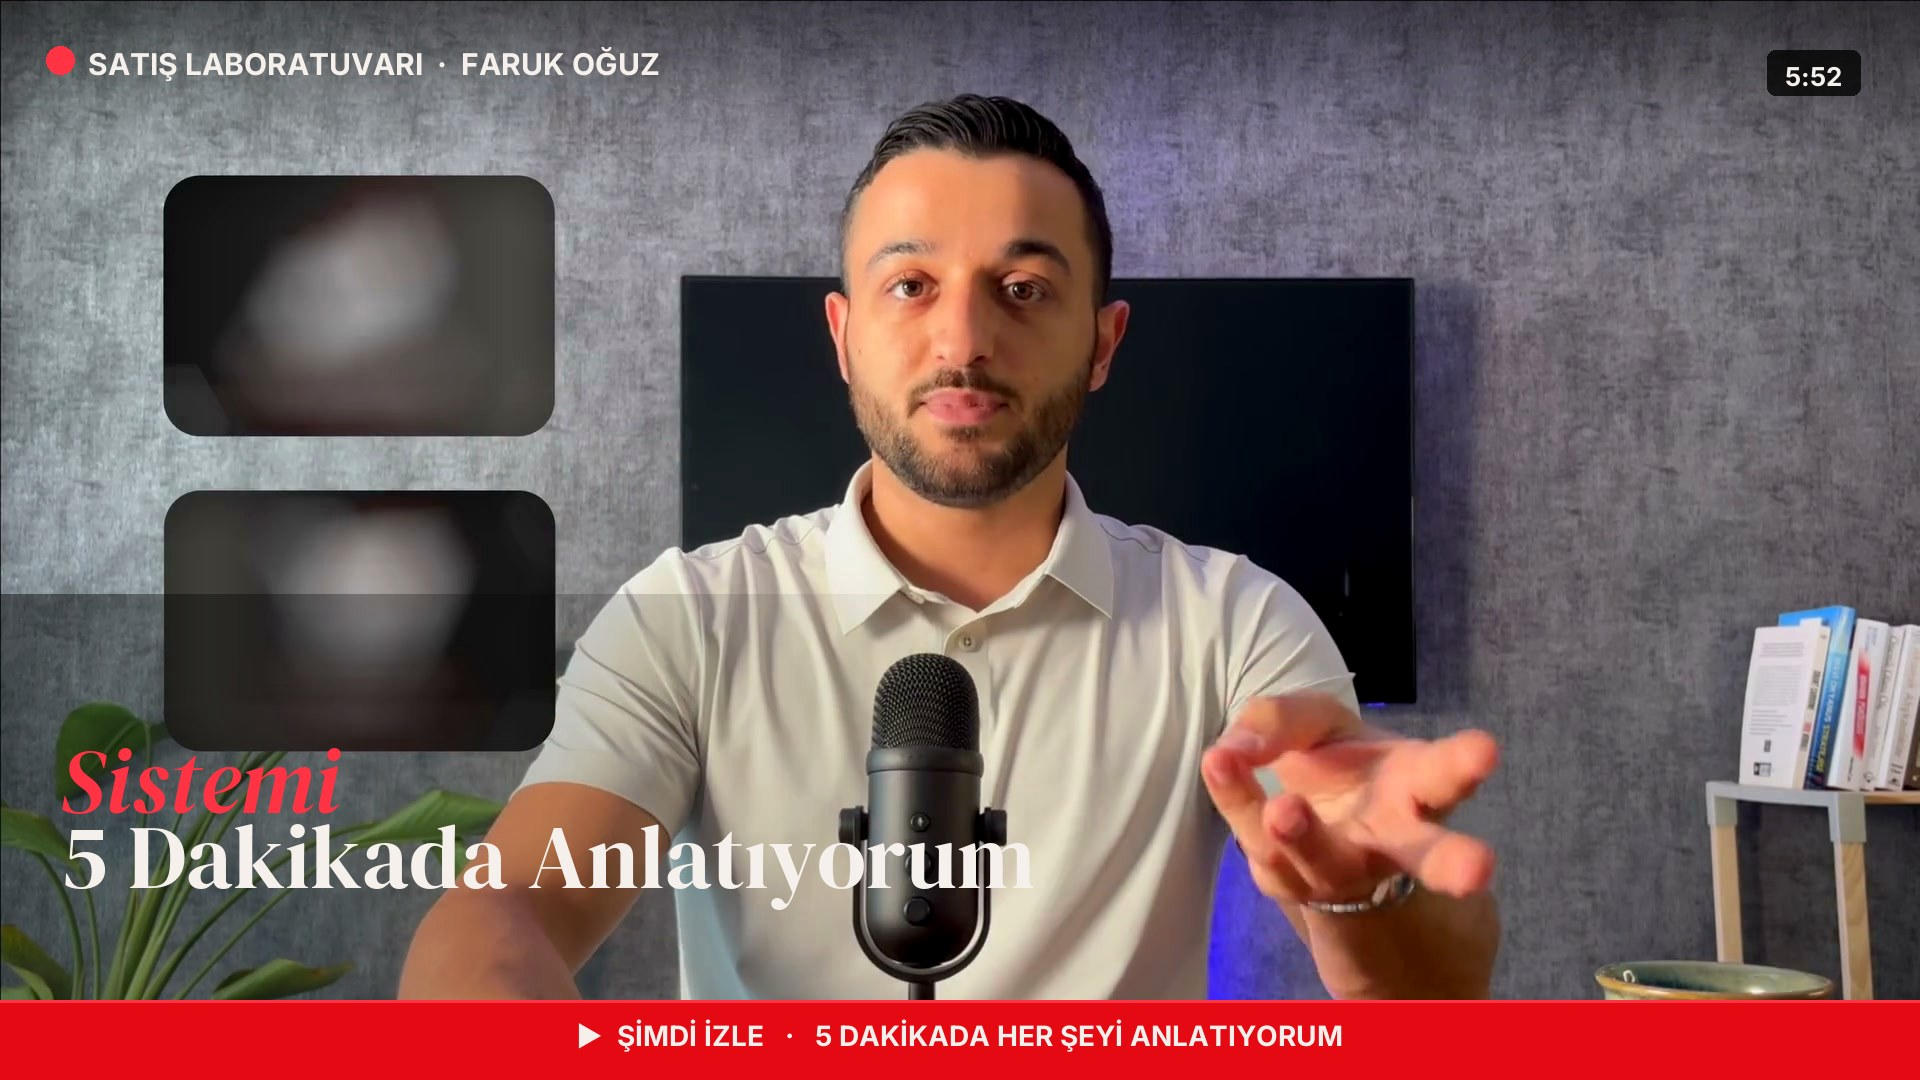
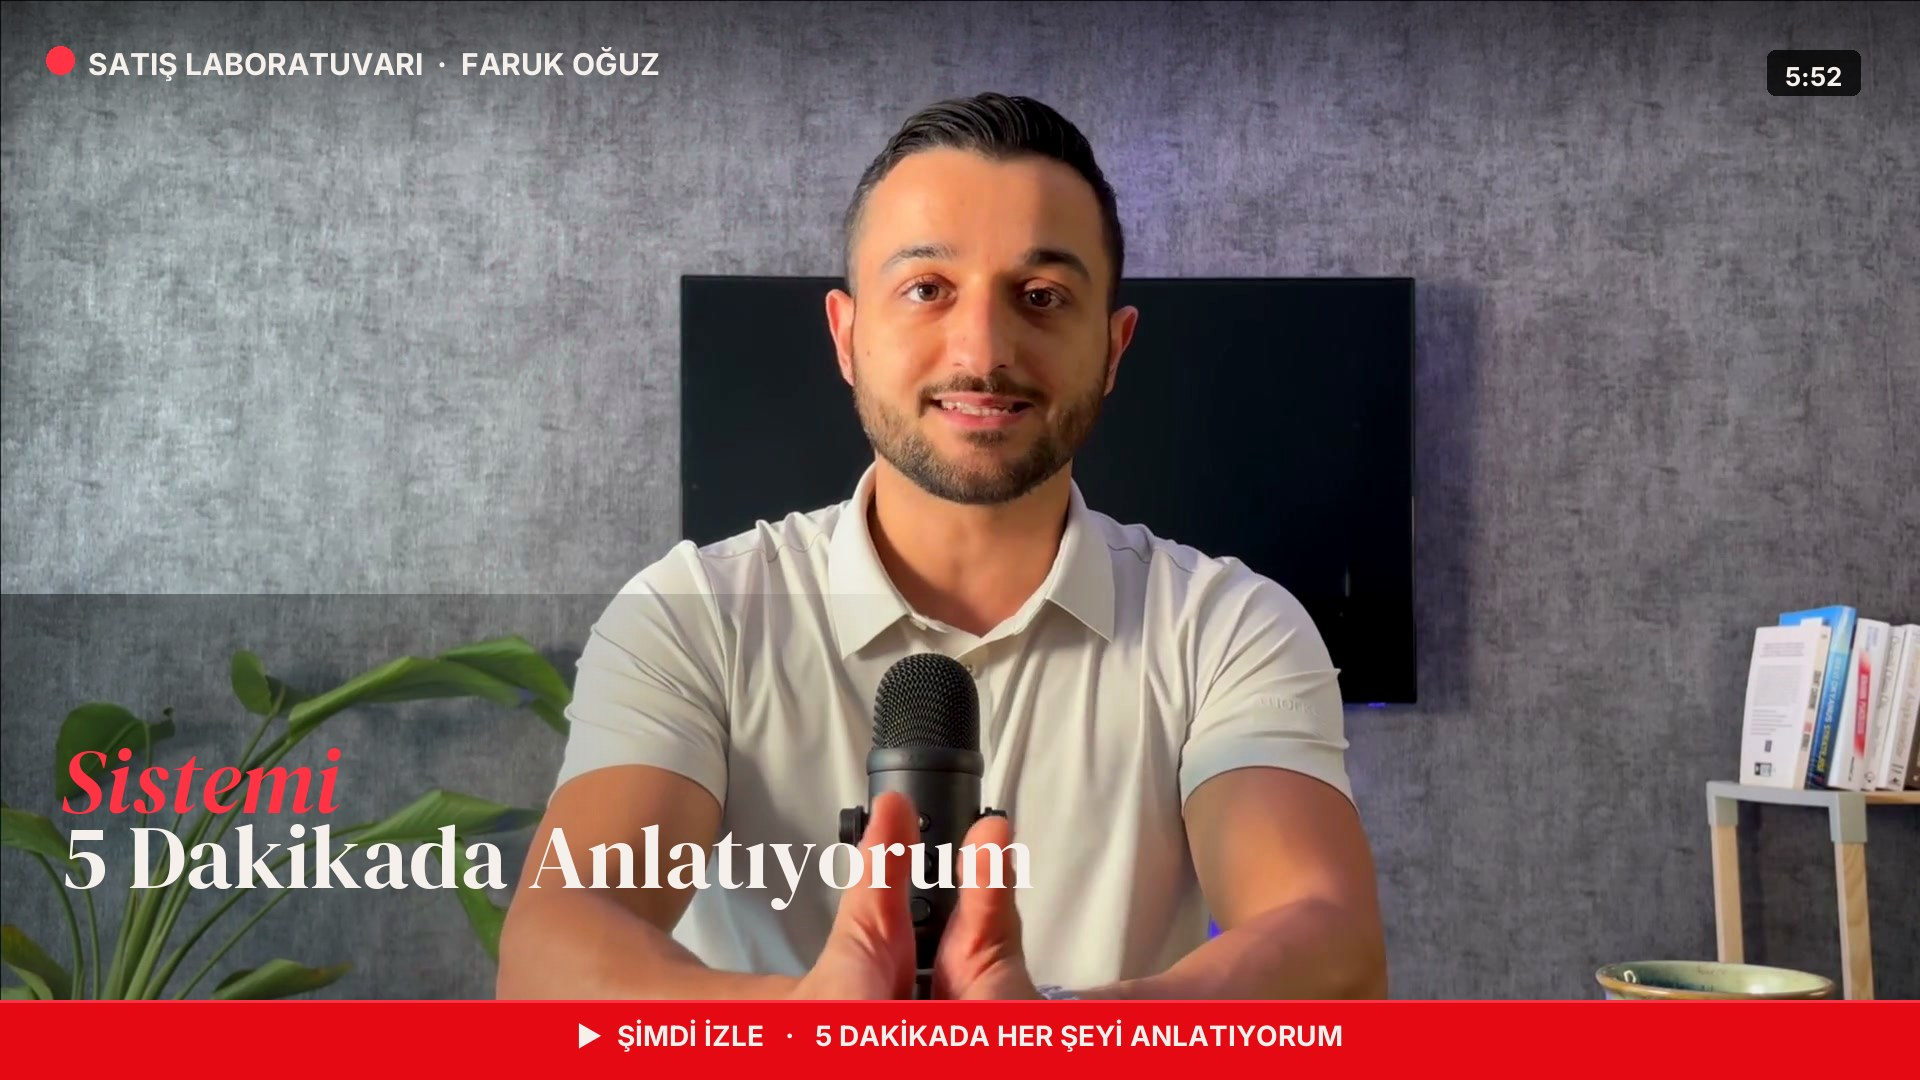
Use clean 90s frame for VSL poster — no overlay graphics
The previous poster (from 5s timestamp) caught the video's animated
side-graphics mid-fade-in, so they rendered as blurry rectangles next
to Faruk's face. Those weren't poster artifacts — they were animation
overlays from the source video (e.g. "Pazarlama Operasyonları",
"Satış Operasyonları" cards that appear and disappear throughout).

Switch to the 90s frame where Faruk is alone in the shot — smiling,
hands forward, no side graphics. Same brand overlay applied. Bump
?v=3 so browsers fetch the new poster.

Changed region(s): [[0.0625, 0.0611, 0.7812, 0.9472], [0.8438, 0.8861, 0.9688, 0.9472], [0.9375, 0.5806, 0.9688, 0.7333]]

diff --git a/index.html b/index.html
@@ -1571,13 +1571,13 @@
                  controls
                  playsinline
                  preload="metadata"
-                 poster="videos/hero/vsl-poster.jpg?v=2">
+                 poster="videos/hero/vsl-poster.jpg?v=3">
             <source src="videos/hero/vsl.mp4?v=2" type="video/mp4">
             Tarayıcınız video oynatmayı desteklemiyor.
           </video>
           <div class="video-facade" id="vsl-facade" role="button" tabindex="0" aria-label="Videoyu sesli oynat">
             <img class="video-facade-img"
-                 src="videos/hero/vsl-poster.jpg?v=2"
+                 src="videos/hero/vsl-poster.jpg?v=3"
                  alt="VSL videosu önizleme">
             <div class="video-facade-overlay"></div>
             <button class="video-play-btn" type="button" tabindex="-1" aria-hidden="true">
